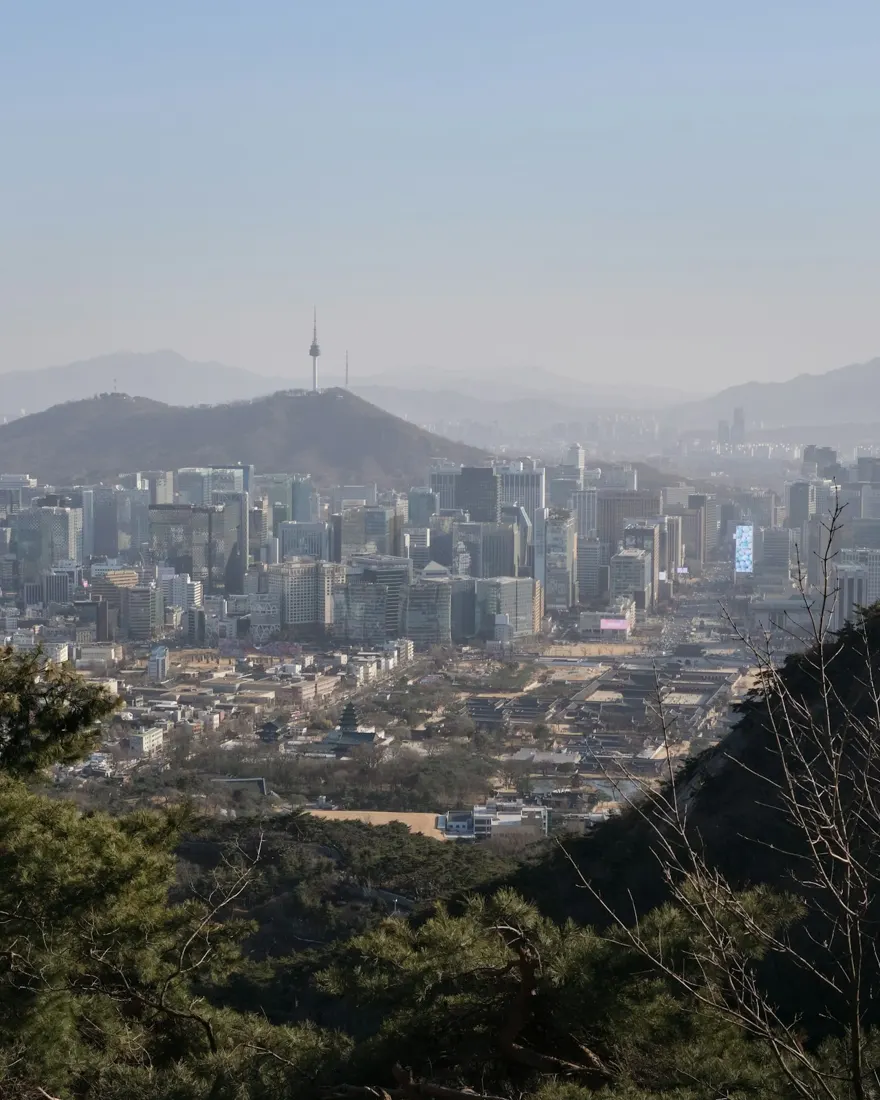
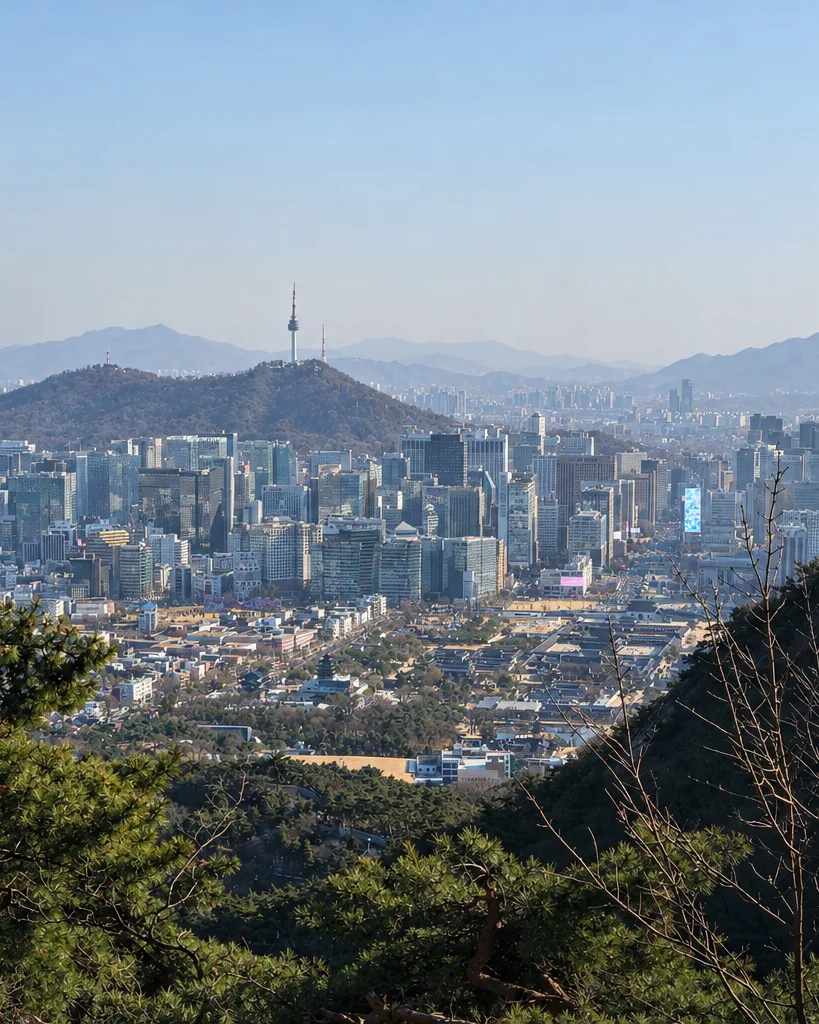
챗봇 첫 화면: 올려 준 업스케일 사진으로 교체, 글쓰기 예시 질문을 담백하게
Claude-Session: https://claude.ai/code/session_01DdAt1ofbNS1MDTDVmK7oAP

diff --git a/chat/index.html b/chat/index.html
@@ -138,7 +138,7 @@ body.reading .foot .in{margin-left:max(0px,calc(50vw - 584px))}
 const API = '';
 const SB_URL = 'https://xyewclvpshldjucryapr.supabase.co';
 const SB_KEY = 'eyJhbGciOiJIUzI1NiIsInR5cCI6IkpXVCJ9.eyJpc3MiOiJzdXBhYmFzZSIsInJlZiI6Inh5ZXdjbHZwc2hsZGp1Y3J5YXByIiwicm9sZSI6ImFub24iLCJpYXQiOjE3ODk0NzI0MTAsImV4cCI6MjEwNTA0ODQxMH0.6JRZhZ6FPh-VUb1RHGf0wxfo_Y69ZQ-V6vk6TCoyM4c';
-const EXAMPLES = ['항공사 밸류에이션은 뭘로 하는 게 좋아?', '수출 통계로 매출을 추정하는 방법 있어?', '투자포인트 문단은 어떻게 써야 잘 읽혀?', '산업 리서치는 어디서부터 시작하면 돼?'];
+const EXAMPLES = ['항공사 밸류에이션은 뭘로 하는 게 좋아?', '수출 통계로 매출을 추정하는 방법 있어?', '리포트 글 잘 쓰는 법 알려줘', '산업 리서치는 어디서부터 시작하면 돼?'];
 
 const $ = (id) => document.getElementById(id);
 const sb = window.supabase.createClient(SB_URL, SB_KEY);
